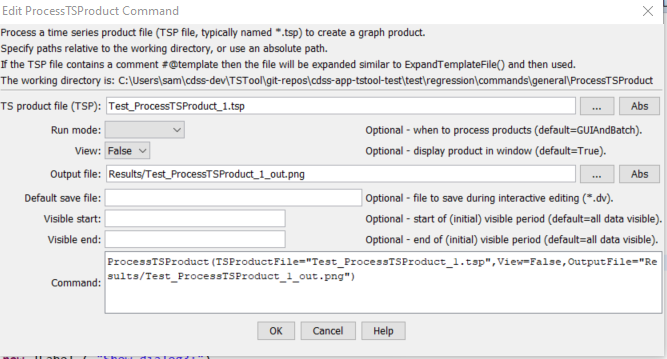
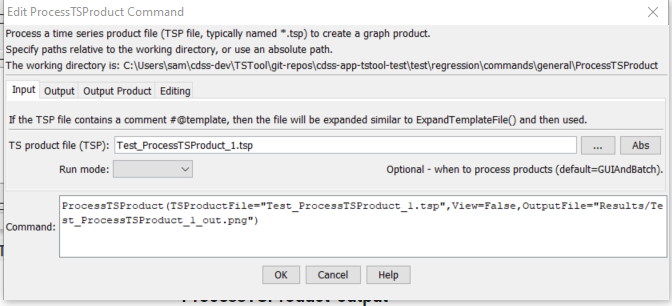
Add TextEdit documentation and update ProcessTSProduct, issue #53

Changed region(s): [[0.0, 0.0, 1.0, 1.0], [0.9595, 0.0, 1.0, 0.0588], [0.0, 0.5882, 0.03, 0.6176]]

diff --git a/mkdocs-project/docs/command-ref/ProcessTSProduct/ProcessTSProduct.md b/mkdocs-project/docs/command-ref/ProcessTSProduct/ProcessTSProduct.md
@@ -66,7 +66,7 @@ it may be necessary to edit the file and make the following corrections:
 (may need to convert absolute paths to relative paths).
 
 Time series identifiers in the product file are used as follows:
-	
+
 * If the time series are in TSTool’s ***Results*** area, the time series will be used without rereading.
 * Otherwise, the `TSID` is used to read the time series and must therefore
 contain enough information to locate and read the time series,
@@ -84,16 +84,37 @@ creation of large numbers of graphs, for example to create images for a website.
 
 The following dialog is used to edit the `ProcessTSProduct` command and illustrates the command syntax.
 The path to the time series product file can be absolute or relative to the working directory.
-The ***Browse*** button can be used to select the time series product description file
-(if a relative path is desired, delete the leading path after the select or
-use the ***Remove Working Directory from TSP*** button).
 
 **<p style="text-align: center;">
 ![ProcessTSProduct](ProcessTSProduct.png)
 </p>**
 
 **<p style="text-align: center;">
-`ProcessTSProduct` Command Editor (<a href="../ProcessTSProduct.png">see also the full-size image</a>)
+`ProcessTSProduct` Command Editor for Input Parameters (<a href="../ProcessTSProduct.png">see also the full-size image</a>)
+</p>**
+
+**<p style="text-align: center;">
+![ProcessTSProduct-output](ProcessTSProduct-output.png)
+</p>**
+
+**<p style="text-align: center;">
+`ProcessTSProduct` Command Editor for Output Parameters (<a href="../ProcessTSProduct-output.png">see also the full-size image</a>)
+</p>**
+
+**<p style="text-align: center;">
+![ProcessTSProduct-product](ProcessTSProduct-product.png)
+</p>**
+
+**<p style="text-align: center;">
+`ProcessTSProduct` Command Editor for Output Product Parameters (<a href="../ProcessTSProduct-product.png">see also the full-size image</a>)
+</p>**
+
+**<p style="text-align: center;">
+![ProcessTSProduct-edit](ProcessTSProduct-edit.png)
+</p>**
+
+**<p style="text-align: center;">
+`ProcessTSProduct` Command Editor for Editing Parameters (<a href="../ProcessTSProduct-edit.png">see also the full-size image</a>)
 </p>**
 
 After using the above dialog to edit the command, the time series product can be processed from TSTool as follows:
@@ -112,9 +133,11 @@ The working directory will be set to the directory for the commands file and out
 |`RunMode`<br>**required**|Indicate the run mode to process the product, one of:<ul><li>`BatchOnly` – indicates that the product should only be processed in batch mode.</li><li>`GUIOnly` – indicates that the product should only be processed when the TSTool GUI is used (useful when Preview is set to Preview).</li><li>`GUIAndBatch` – indicates that the product should be processed in batch and GUI mode.</li><ul>|None – must be specified.|
 |`View`<br>**required**|Indicates whether the output should be previewed interactively, one of:<ul><li>`True`– display the graph.</li><li>`False` – do not display the graph (specify the output file instead to automate image creation).</li></ul>|None – must be specified.|
 |`OutputFile`|The absolute or relative path to an output file.  Use this parameter with View=False to automate image processing.  If the filename ends in “jpg”, a JPEG image file will be produced.  If the filename ends in “png”, a PNG file will be produced (recommended).  Can be specified using processor `${Property}`.|Graph file will not be created.|
-|`DefaultSaveFile`|Used with experimental feature to enabling editing in the time series table that corresponds to a graph view.  Specify the default DateValue filename to save edits.  Can be specified using processor `${Property}`.|Editing is disabled.|
+|`OutputProductFile`|The absolute or relative path to output product file.  Use this parameter to create a fully-expanded time series product, for example to hand off the product configuration to other visualization software.  Can be specified using processor `${Property}`. | |
+|`OutputProductFormat`| The format for the file specified with `OutputProductFile`:<ul><li>`JSON` for JSON</li><li>`Properties` - the format matching a `*.tsp` file</li></ul>. | `JSON` |
 |`VisibleStart`|The starting date/time to zoom for the initial (and image file) graph.  Can be specified using processor `${Property}`.|Full period is visible.|
 |`VisibleEnd`|The ending date/time to zoom for the initial (and image file) graph.  Can be specified using processor `${Property}`.|Full period is visible.|
+|`DefaultSaveFile`|Used with experimental feature to enabling editing in the time series table that corresponds to a graph view.  Specify the default DateValue filename to save edits.  Can be specified using processor `${Property}`. This feature is seldom used. |Editing is disabled.|
 
 ## Examples ##
 

diff --git a/mkdocs-project/docs/command-ref/TextEdit/TextEdit.md b/mkdocs-project/docs/command-ref/TextEdit/TextEdit.md
@@ -1,0 +1,63 @@
+# TSTool / Command / TextEdit #
+
+* [Overview](#overview)
+* [Command Editor](#command-editor)
+* [Command Syntax](#command-syntax)
+* [Examples](#examples)
+* [Troubleshooting](#troubleshooting)
+* [See Also](#see-also)
+
+-------------------------
+
+## Overview ##
+
+The `TextEdit` command edits a text file,
+currently providing simple search and replace for literal strings.
+
+In the future this command may be enhanced to add the following features:
+
+* edit a property
+* allow multiple operations in one command
+
+## Command Editor ##
+
+The following dialog is used to edit the command and illustrates the command syntax.
+
+**<p style="text-align: center;">
+![TextEdit](TextEdit.png)
+</p>**
+
+**<p style="text-align: center;">
+`TextEdit` Command Editor (<a href="../TextEdit.png">see also the full-size image</a>)
+</p>**
+
+## Command Syntax ##
+
+The command syntax is as follows:
+
+```text
+TextEdit(Parameter="Value",...)
+```
+**<p style="text-align: center;">
+Command Parameters
+</p>**
+
+| **Parameter**&nbsp;&nbsp;&nbsp;&nbsp;&nbsp;&nbsp;&nbsp;&nbsp;&nbsp;&nbsp;&nbsp;&nbsp;&nbsp;&nbsp;&nbsp;&nbsp;&nbsp;&nbsp;&nbsp;&nbsp;&nbsp; | **Description** | **Default**&nbsp;&nbsp;&nbsp;&nbsp;&nbsp;&nbsp;&nbsp;&nbsp;&nbsp;&nbsp; |
+| --------------|-----------------|----------------- |
+| `InputFile`<br>**required** | The name of the input file.  Can be specified using `${Property}`. | None - must be specified. |
+| `SearchFor`<br>**required** | The literal string to search for in the input file.  Can be specified using `${Property}`. | None - must be specified. |
+| `ReplaceWith`<br>**required** | The literal string to use for the replacement string in the output file.  Can be specified using `${Property}`.<br>Use the syntax `\$\{Property}` to insert property notation in the output file. | None - must be specified. |
+| `OutputFile`<br>**required** | The name of the output file.  Can be specified using `${Property}`. | None - must be specified. |
+| `IfInputNotFound` | Indicate an action if the source file is not found:  `Ignore` (ignore the missing file and do not warn), `Warn` (generate a warning message), `Fail` (generate a failure message) | `Warn` |
+
+## Examples ##
+
+See the [automated tests](https://github.com/OpenCDSS/cdss-app-tstool-test/tree/master/test/regression/commands/general/TextEdit).
+
+## Troubleshooting ##
+
+## See Also ##
+
+* [`AppendFile`](../AppendFile/AppendFile.md) command
+* [`CopyFile`](../CopyFile/CopyFile.md) command
+* [`RemoveFile`](../RemoveFile/RemoveFile.md) command

diff --git a/mkdocs-project/docs/appendix-release-notes/release-notes-13.md b/mkdocs-project/docs/appendix-release-notes/release-notes-13.md
@@ -40,6 +40,8 @@ command to support multiple patterns to match files.
 * ![change](change.png) [13.03.00] Update the [`DeleteTableRows`](../command-ref/DeleteTableRows/DeleteTableRows.md) command to allow `*` to delete all rows,
 additional functionality has been added for strings, and string operations have been made case-dependent.
 * ![change](change.png) [13.03.00] Update the [`NewTable`](../command-ref/NewTable/NewTable.md) command to support arrays.
+* ![change](change.png) [13.03.00] Update the [`ProcessTSProduct`](../command-ref/ProcessTSProduct/ProcessTSProduct.md)
+command to output the time series product file to reflect the full product definition.
 * ![change](change.png) [13.03.00] Update the [`ReadTableFromDBF`](../command-ref/ReadTableFromDBF/ReadTableFromDBF.md) command to covert column data types.
 * ![change](change.png) [13.03.00] Update the [`RunningStatisticTimeSeries`](../command-ref/RunningStatisticTimeSeries/RunningStatisticTimeSeries.md) command
 to add statistics:  `Change`, `ChangeAbs`, `ChangeFraction`, `ChangeFractionAbs`, `ChangePercent`, `ChangePercentAbs`, `NewMax`, and `NewMin`.
@@ -65,6 +67,7 @@ to change interval of irregular interval time series to regular interval, simple
 * ![new](new.png) [13.03.00] Add the [`FormatFile`](../command-ref/FormatFile/FormatFile.md) command to format a file for output,
 including for web
 * ![new](new.png) [13.03.00] Add the [`RunR`](../command-ref/RunR/RunR.md) command to run `R` scripts.
+* ![new](new.png) [13.03.00] Add the [`TextEdit`](../command-ref/TextEdit/TextEdit.md) command to edit text files
 
 ## Changes in Versions 13.02.00 ##
 
